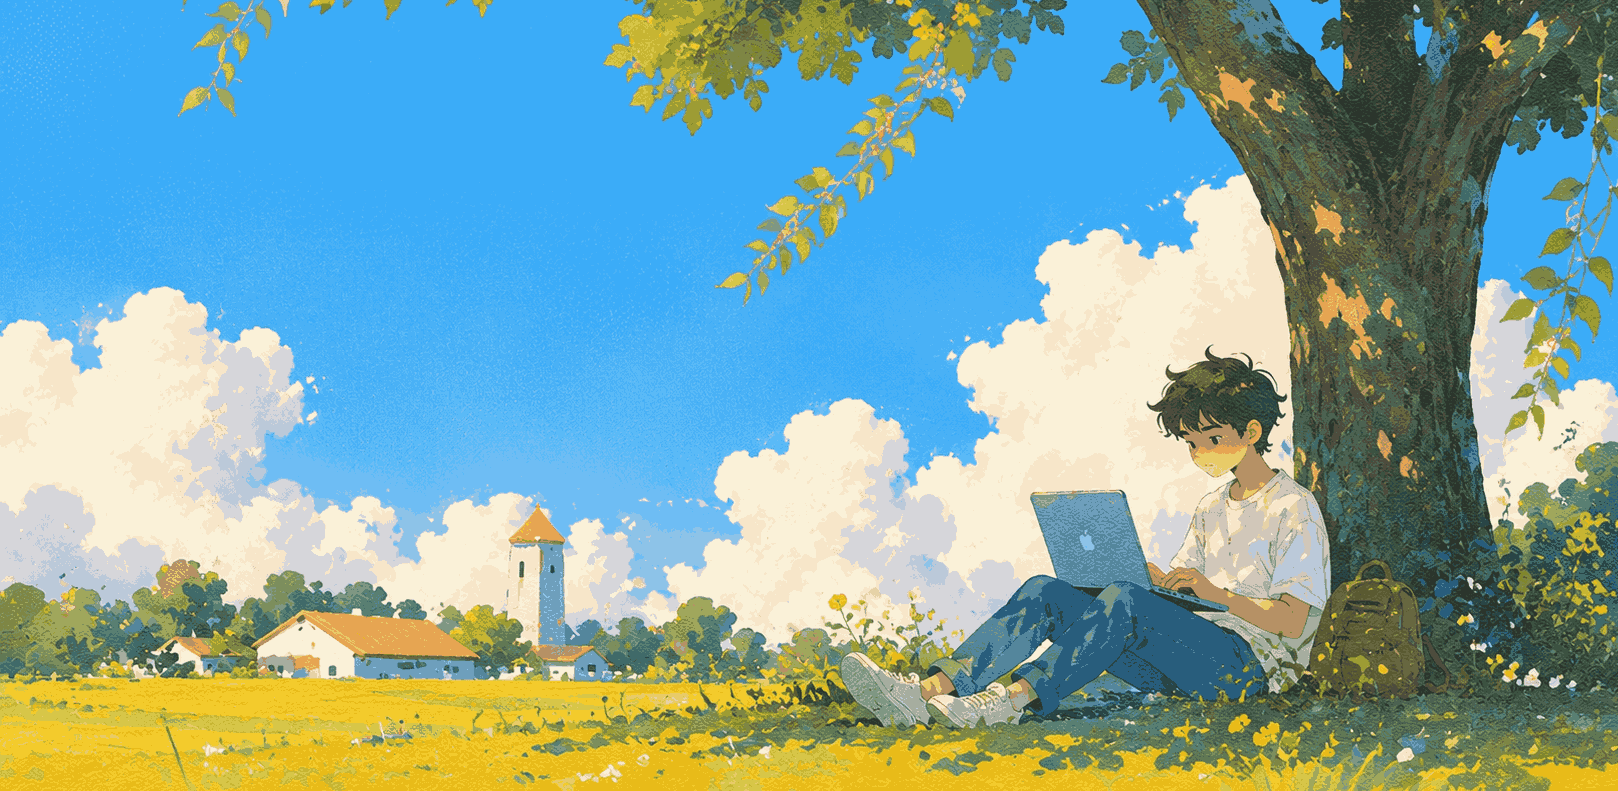
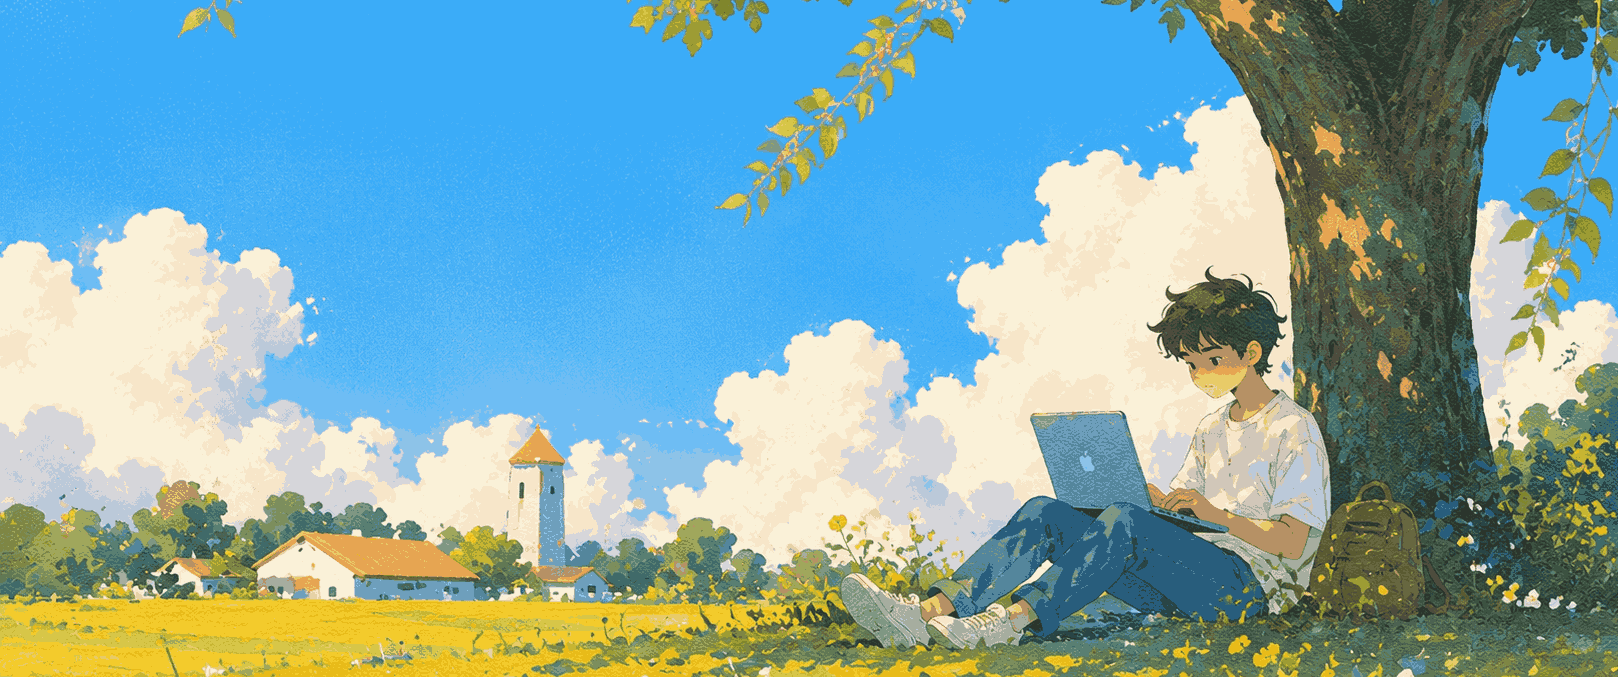
feat: update project documentation with additional tools for code quality and formatting

diff --git a/src/components/Hero.tsx b/src/components/Hero.tsx
@@ -55,7 +55,7 @@ const Hero = () => {
 
   // Format the followers count nicely
   const formatFollowers = (count: number | null) => {
-    if (count === null) return '2.2k'; // Fallback to 2.2k as seen in the reference screenshot
+    if (count === null) return '2.2k';
     if (count >= 1000) {
       return `${(count / 1000).toFixed(1)}k`;
     }
